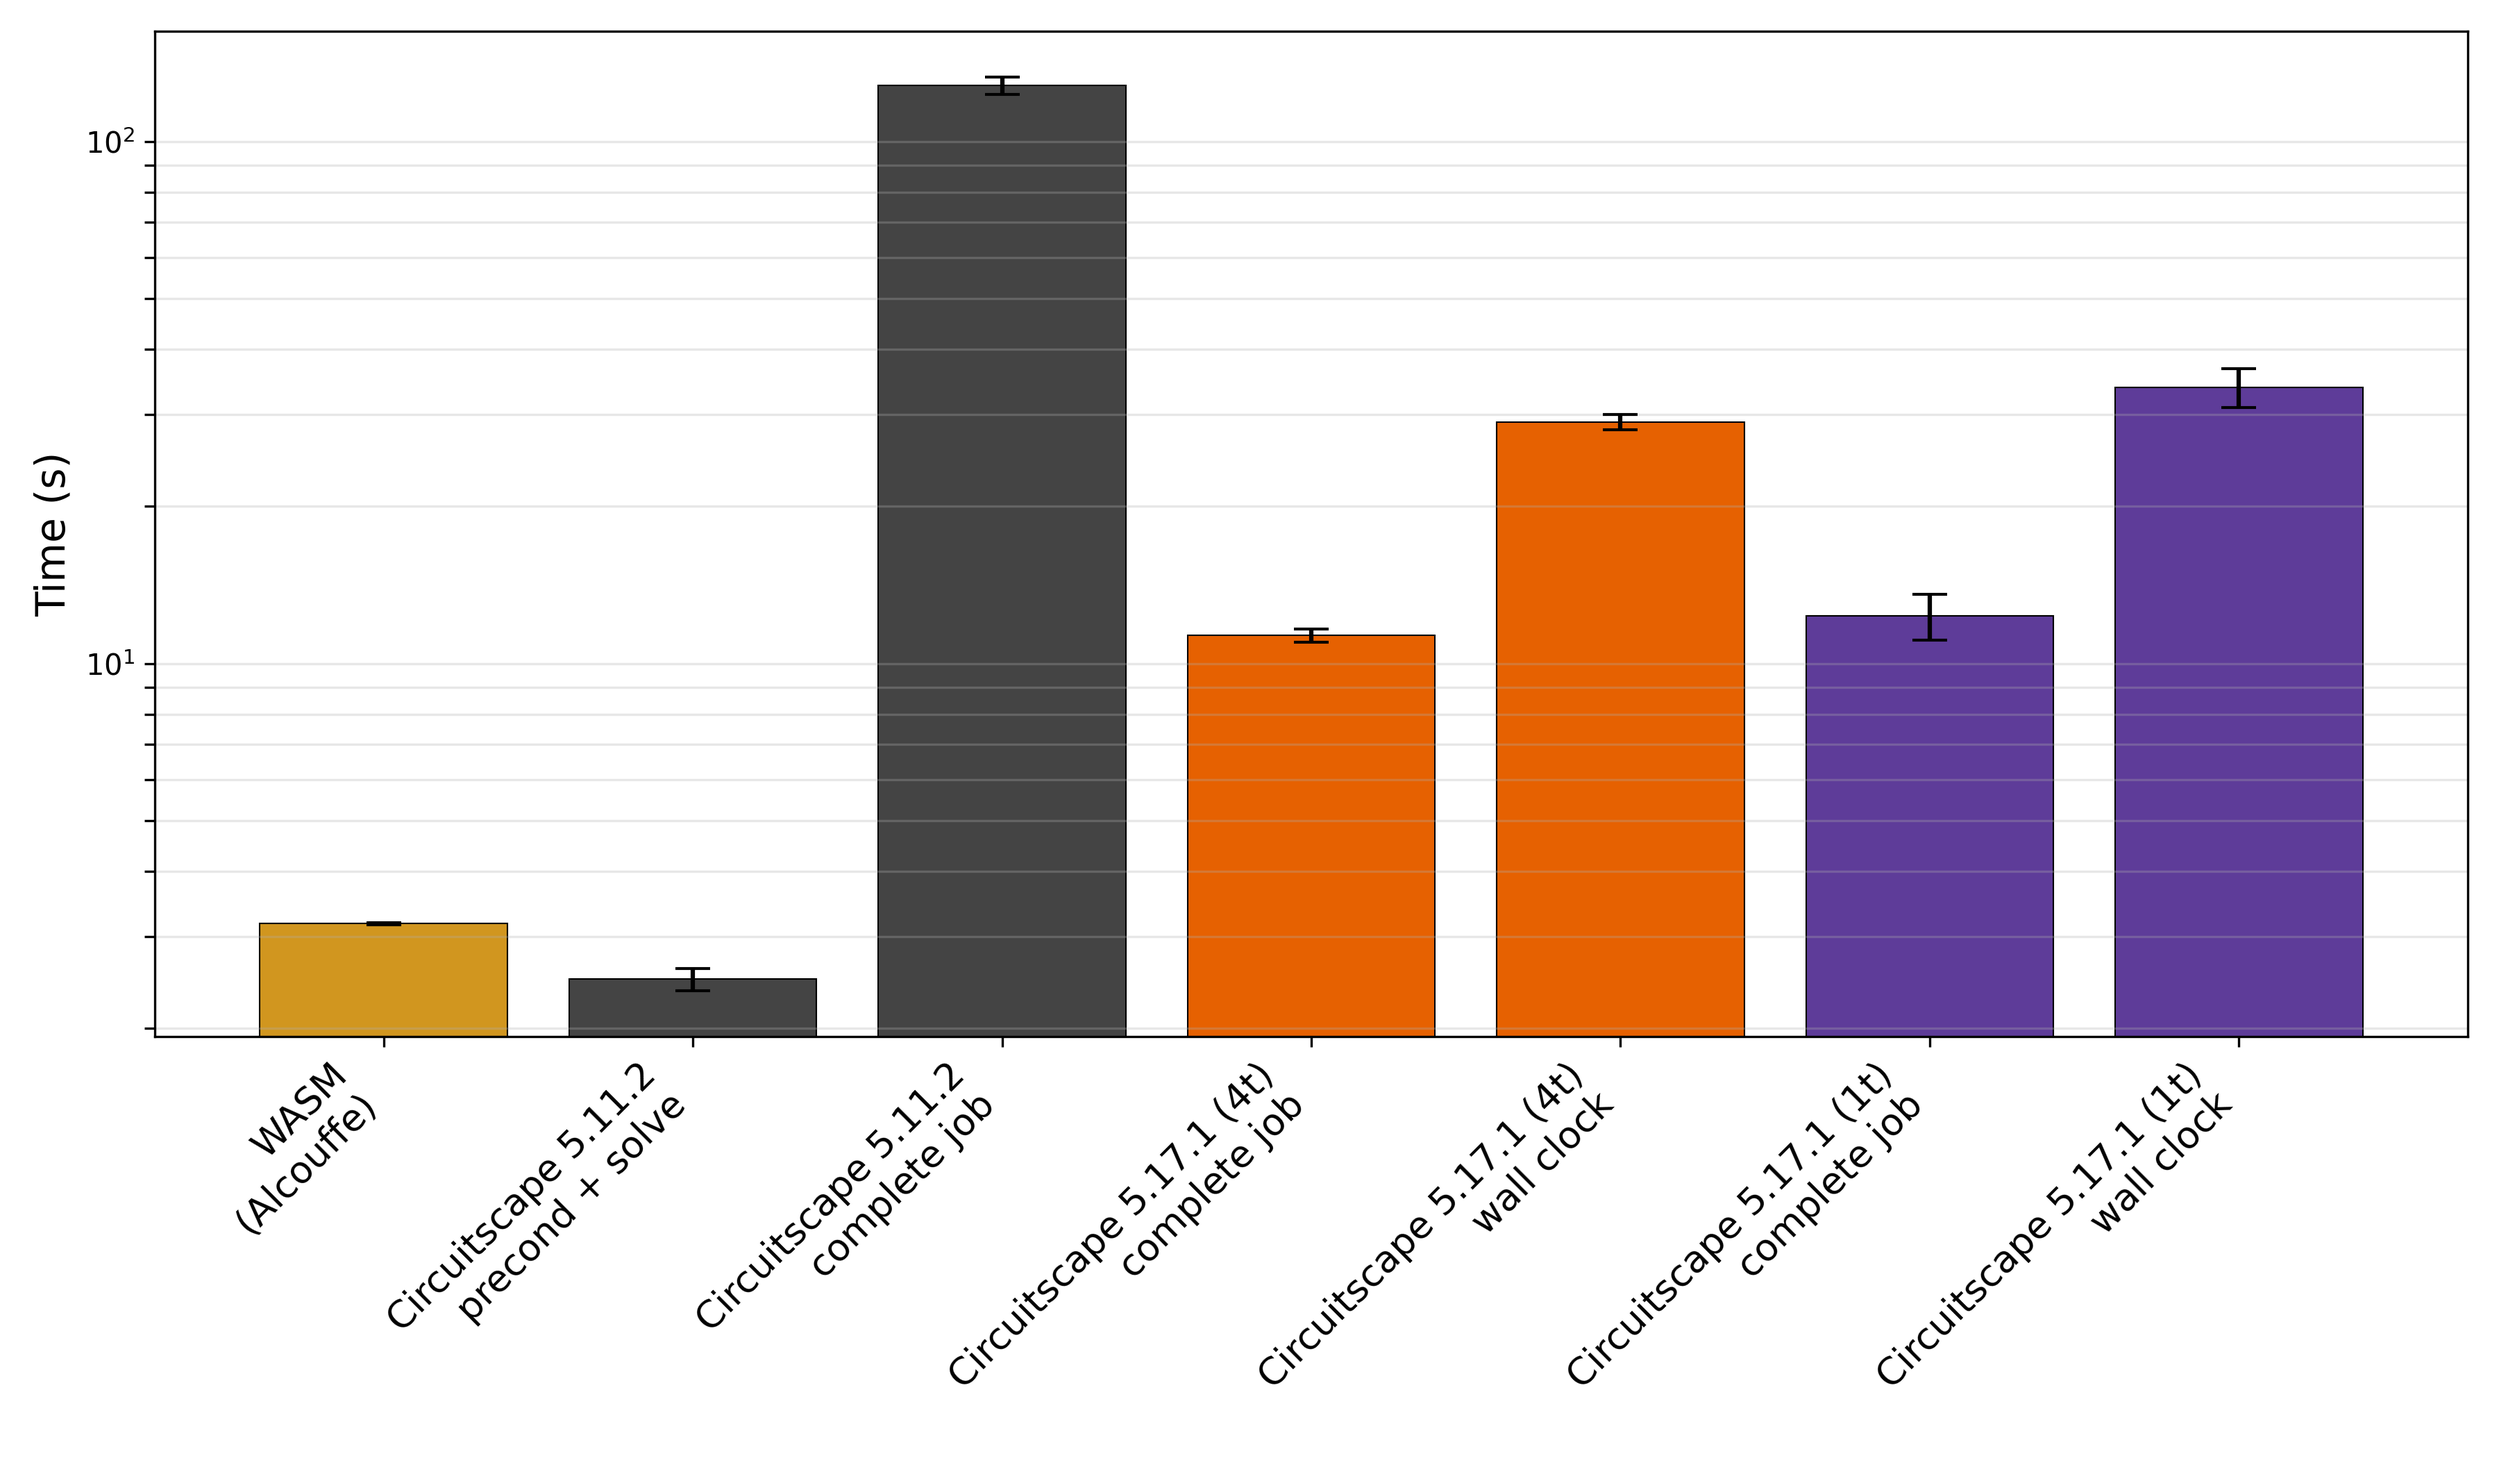
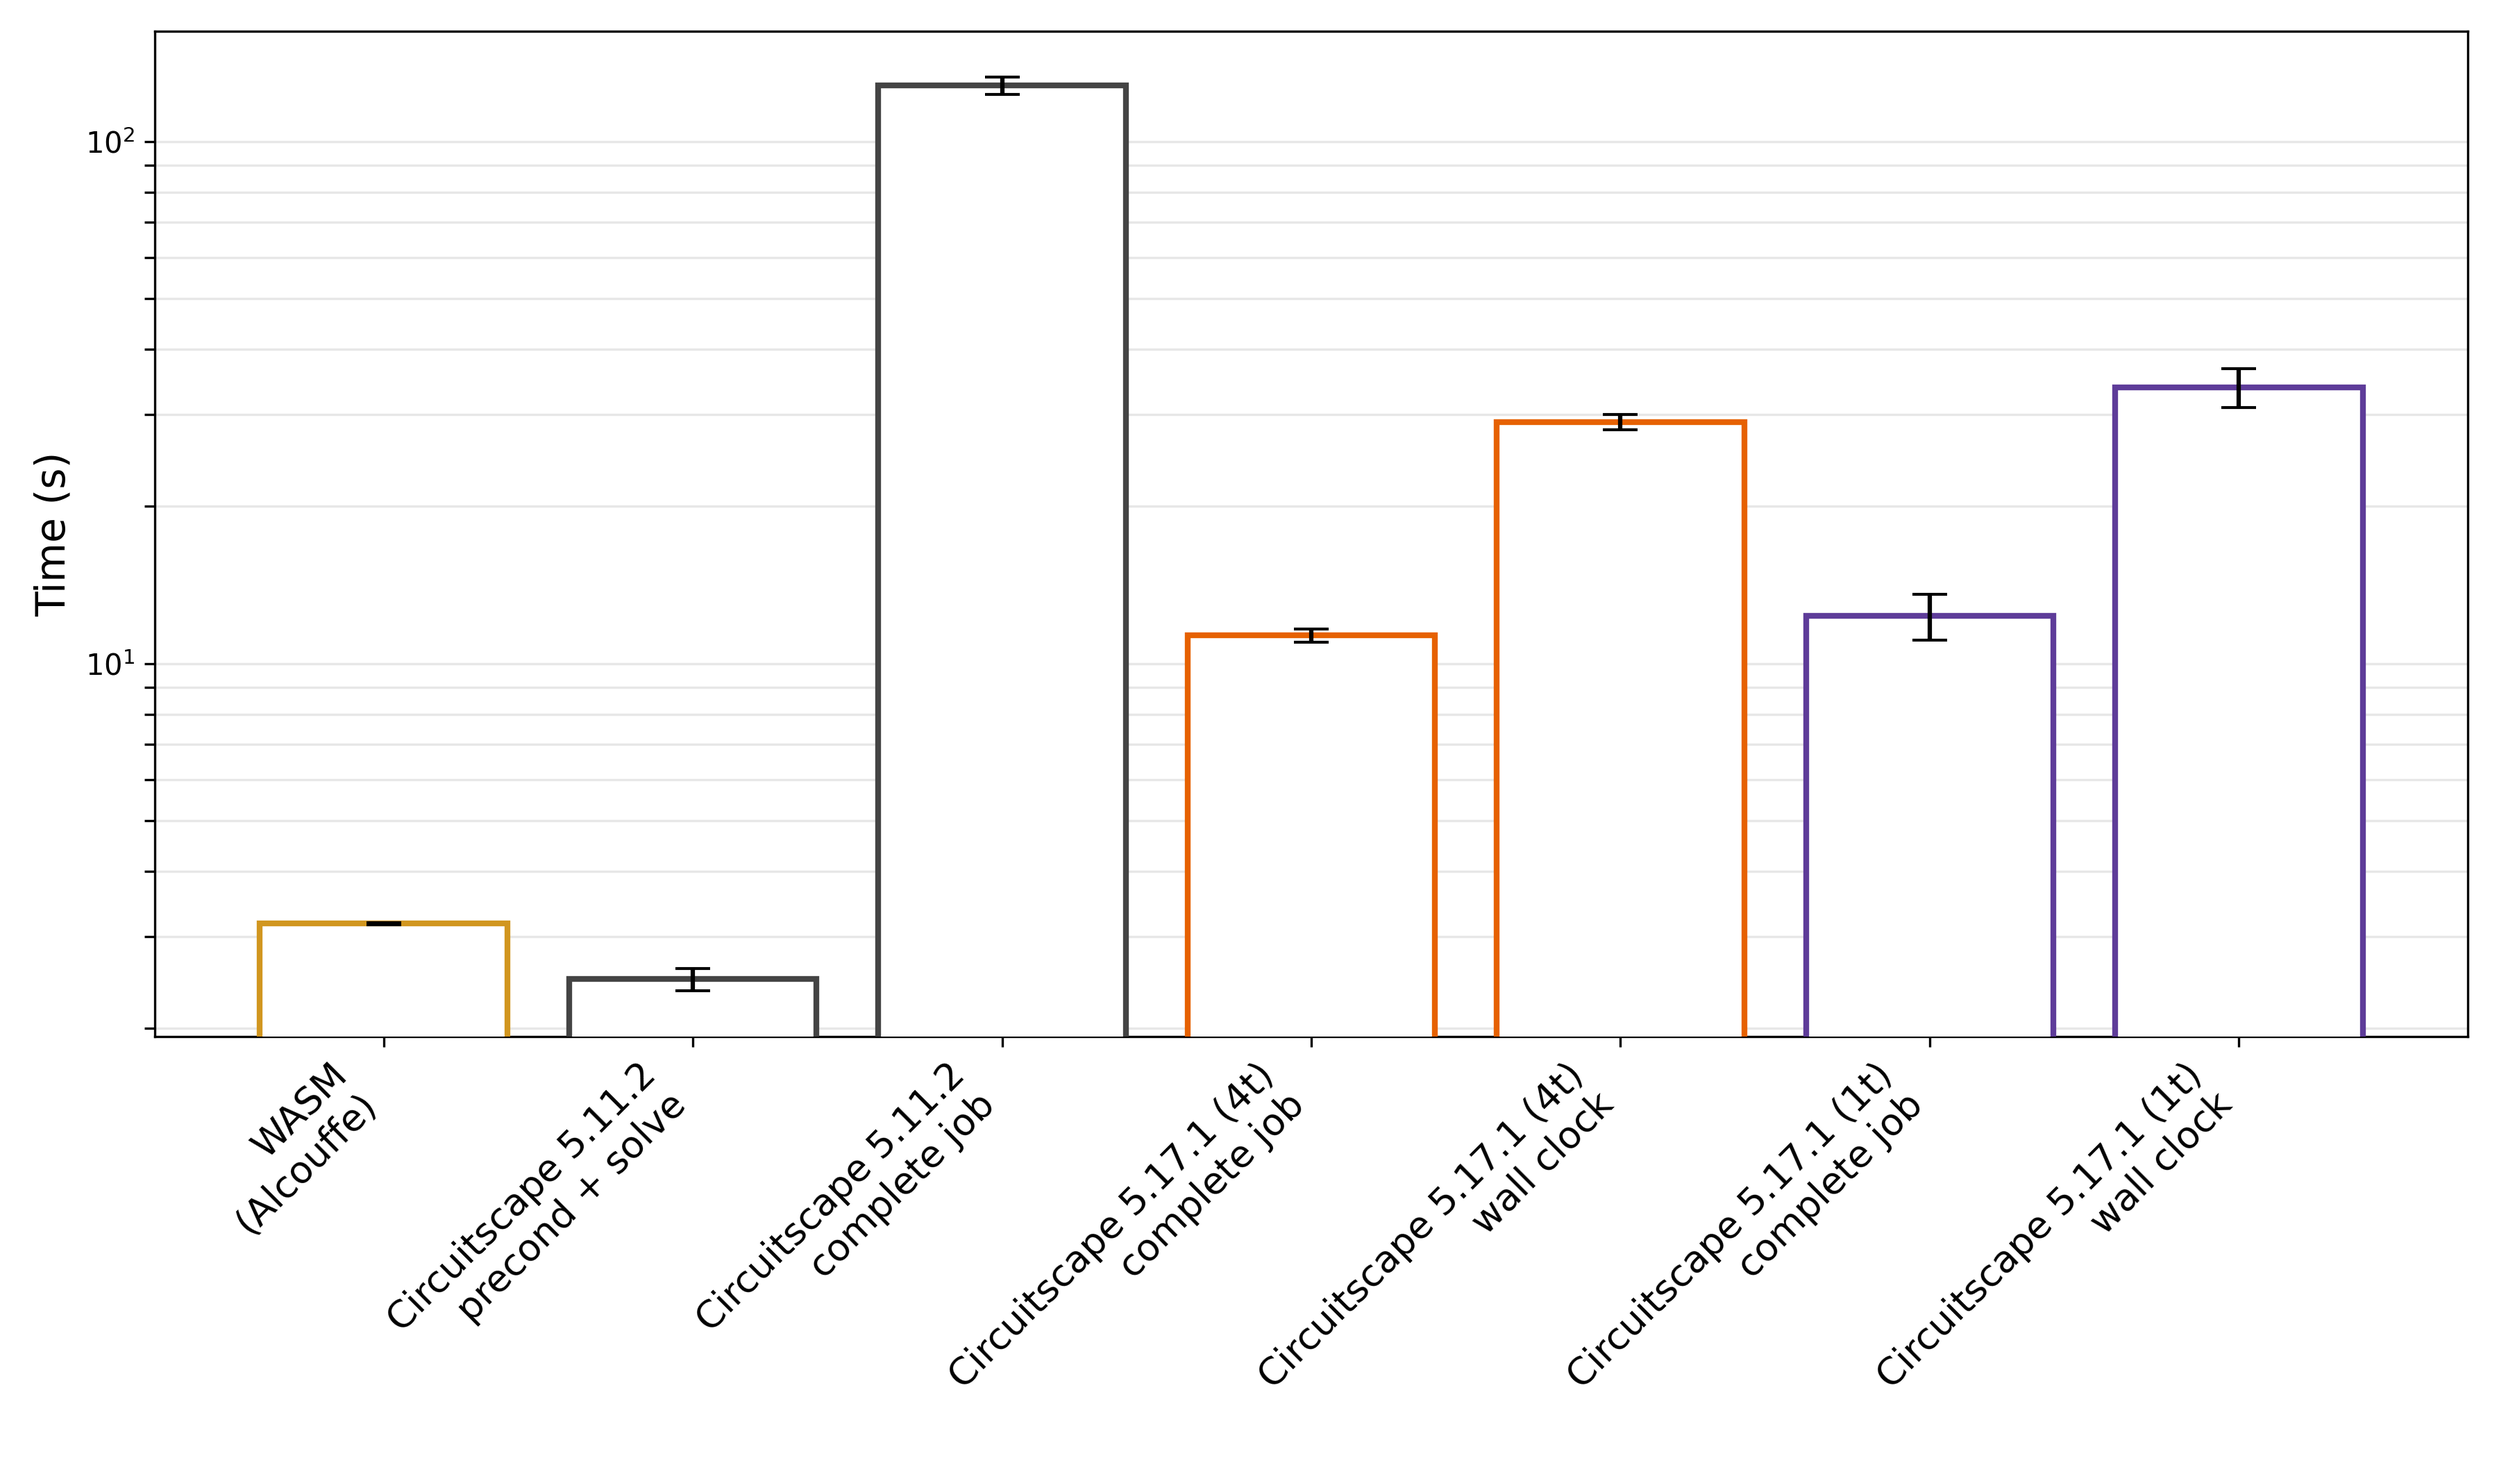
improve bar chart

Changed region(s): [[0.0933, 0.031, 0.9644, 0.7119]]

diff --git a/tests/scripts/plot_julia_vs_bench.py b/tests/scripts/plot_julia_vs_bench.py
@@ -167,7 +167,10 @@ def main():
     x = np.arange(len(labels))
 
     fig, ax = plt.subplots(figsize=(12, 7))
-    ax.bar(x, means, yerr=stds, capsize=6, color=colors, edgecolor="black", linewidth=0.5)
+    bars = ax.bar(x, means, yerr=stds, capsize=6, facecolor='white', edgecolor="black", linewidth=2.0, zorder=3)
+    for bar, col in zip(bars, CB_COLORS): 
+#        bar.set_hatch("xxx")
+        bar.set_edgecolor(col)   # Sets BOTH hatch line color and border color
     ax.set_xticks(x)
     ax.set_xticklabels(labels, fontsize=13, rotation=15, ha="right")
     ax.set_ylabel("Time (s)", fontsize=14)
